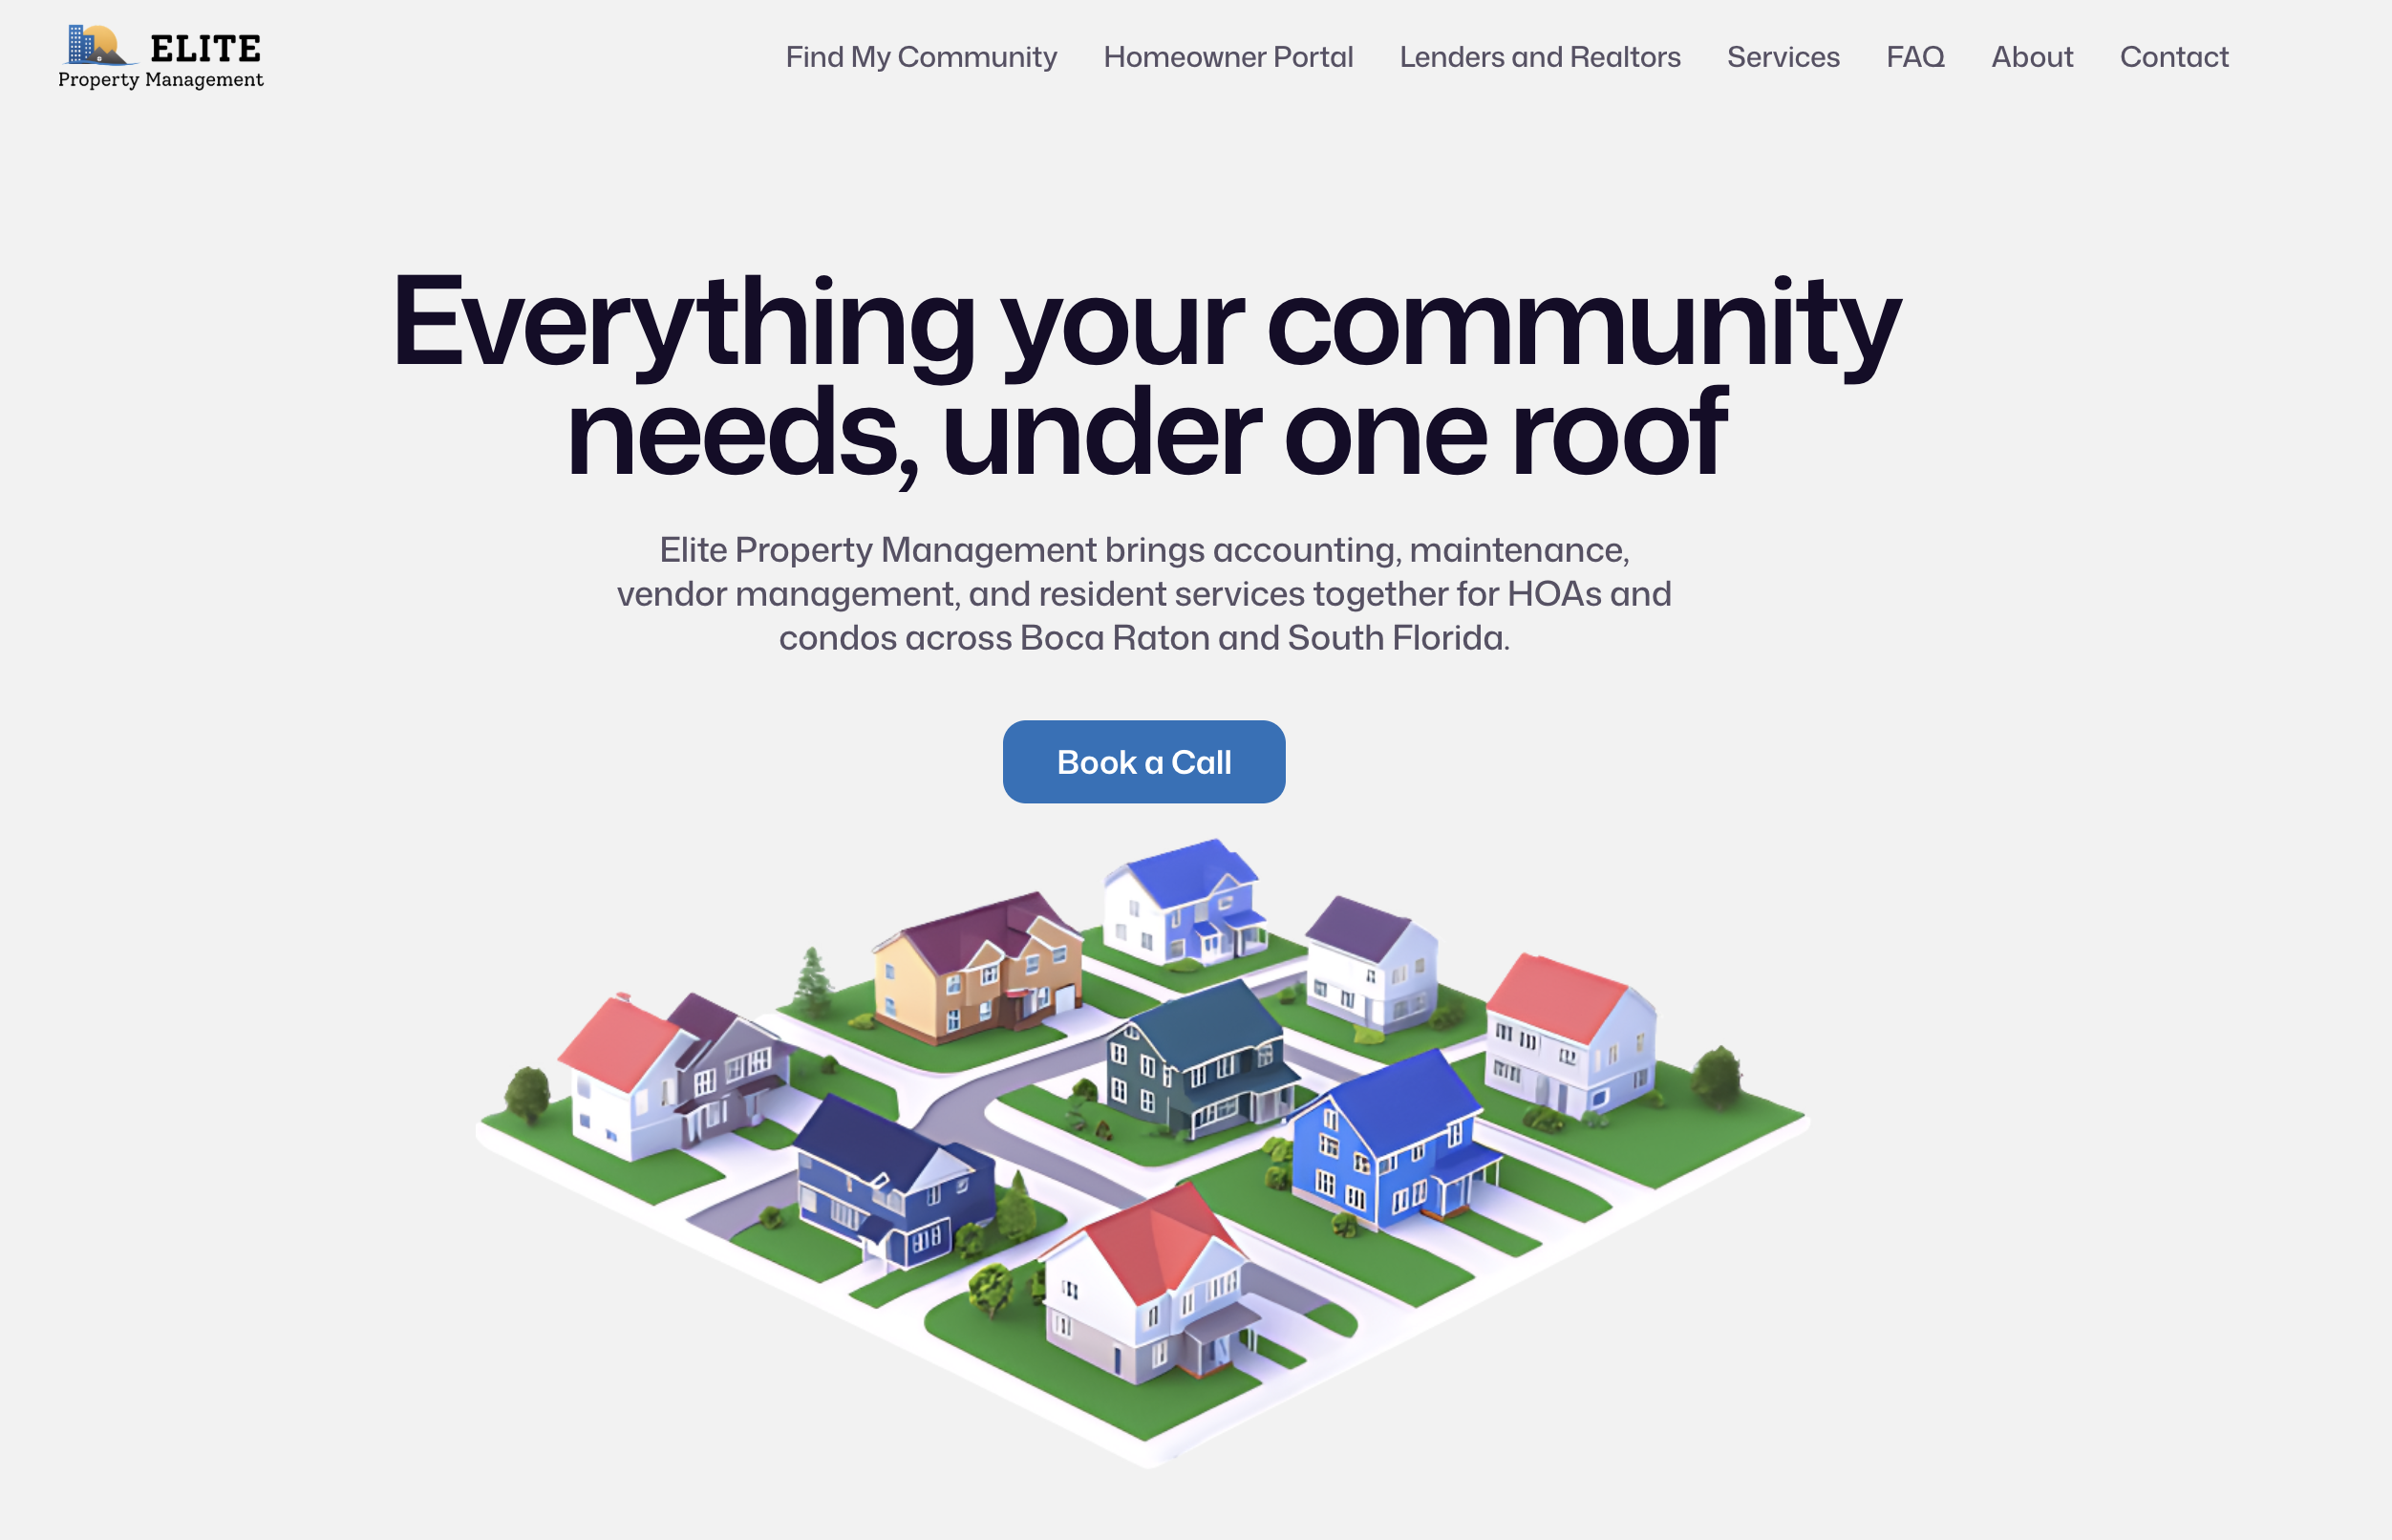
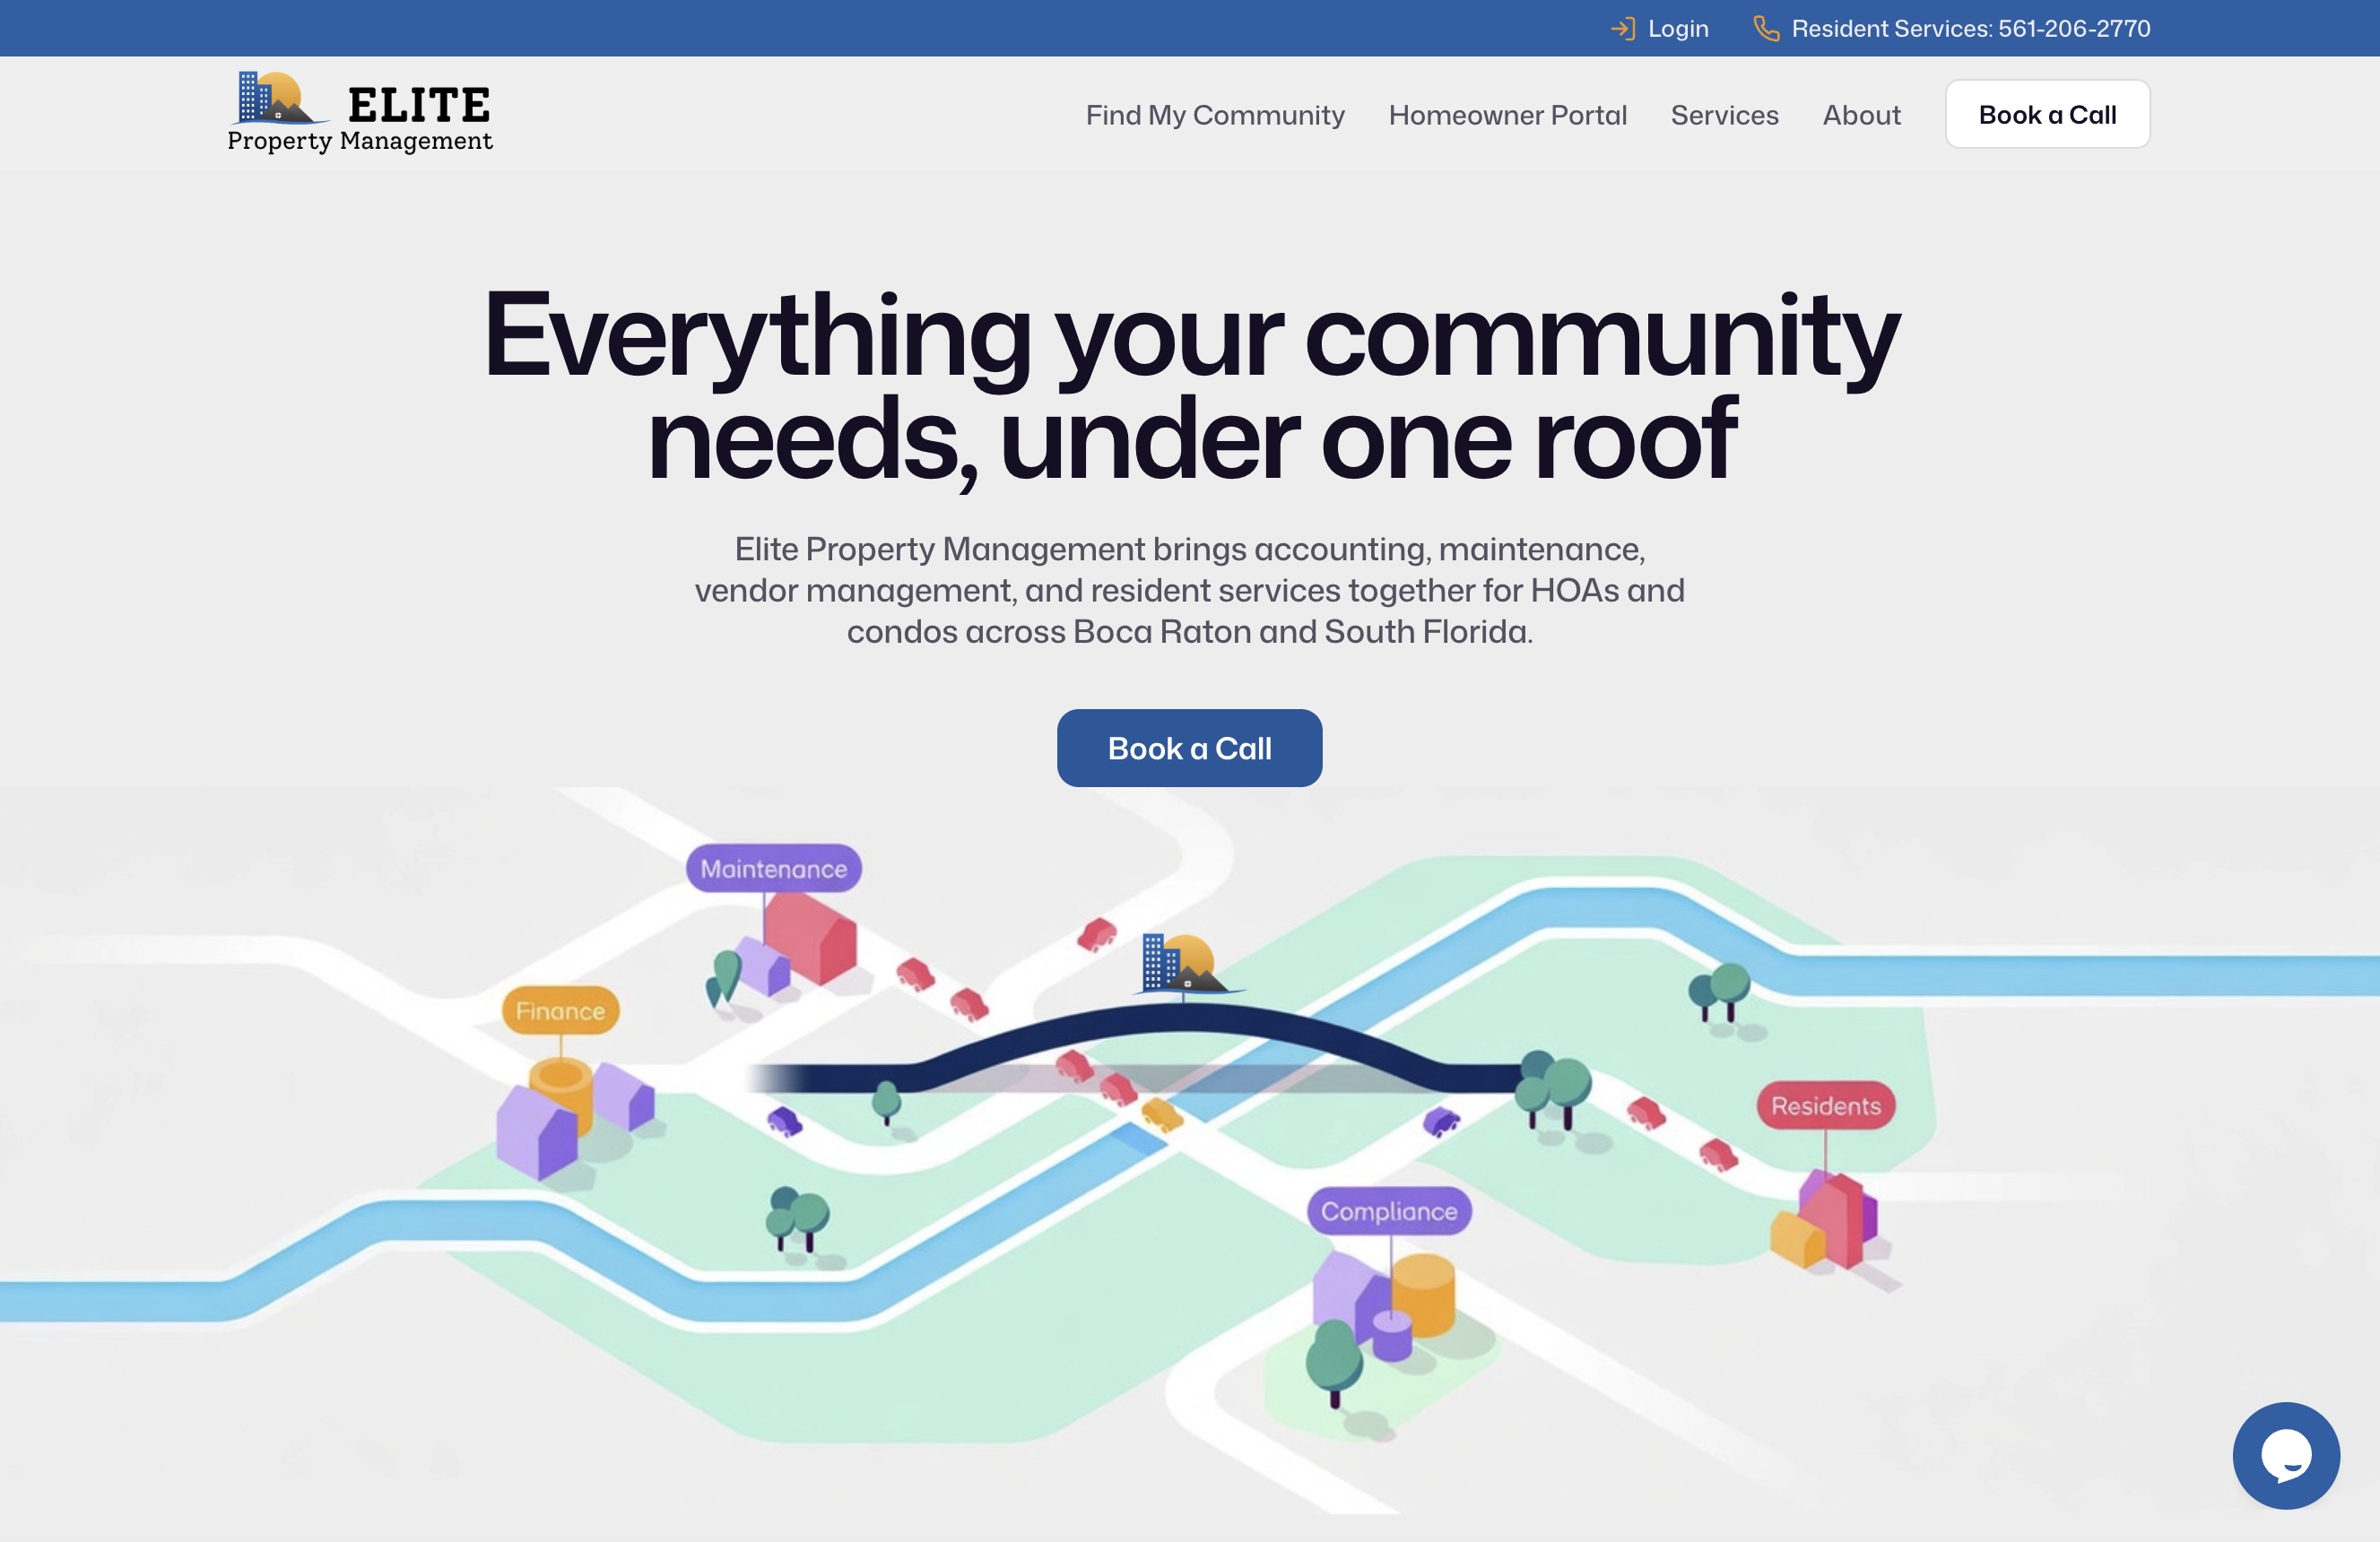
Update project images, carousel chip labels, and SEO description
- Replace WeOut app screenshot (project-8)
- Replace Elite PM landing screenshot (project-3)
- Replace Elite PM section screenshot (work-4)
- Rename carousel chips to Product, Website, Identity
- Reduce chip font size and use site background color
- Update meta description for non-technical founders positioning

diff --git a/index.html b/index.html
@@ -5,7 +5,7 @@
 <meta name="viewport" content="width=device-width, initial-scale=1">
 <title>Vorten Studio</title>
 <link rel="icon" type="image/png" href="favicon.png">
-<meta name="description" content="Vorten Studio — premium design and development for startups that need to move fast and ship beautifully.">
+<meta name="description" content="Vorten Studio — A product studio for non-technical founders. Product strategy, design, and development in one team. Turning ideas into shipped products.">
 <link href="https://api.fontshare.com/v2/css?f[]=satoshi@400,500,600,700,800,900&display=swap" rel="stylesheet">
 <script src="https://cdn.lordicon.com/lordicon.js"></script>
 <style>
@@ -73,7 +73,7 @@ header{position:fixed;top:0.75rem;left:50%;transform:translateX(-50%);z-index:99
 #showcase{padding:1.5rem 0;overflow:hidden}
 .showcase-track{display:flex;gap:1.5rem;animation:marquee 60s linear infinite;width:max-content;padding-left:1.5rem}
 .showcase-card{width:33rem;height:26.5rem;border-radius:var(--card-radius);overflow:hidden;flex-shrink:0;background:#fff;padding:2rem 0 0 2rem;position:relative}
-.showcase-card .card-title{position:absolute;top:0.75rem;left:-0.5rem;font-size:1rem;font-weight:700;color:#111;background:#fff;padding:0.35rem 0.85rem;border-radius:9999px;z-index:1}
+.showcase-card .card-title{position:absolute;top:0.75rem;left:-0.5rem;font-size:0.75rem;font-weight:700;color:#111;background:var(--bg);padding:0.3rem 0.75rem;border-radius:9999px;z-index:1}
 .showcase-card img{width:100%;height:100%;object-fit:cover;object-position:top left;border-radius:0.75rem 0.75rem 0 0}
 .showcase-card.card-logo{padding:2rem}
 .showcase-card.card-logo img{width:100%;height:100%;object-fit:contain;object-position:center;border-radius:0.75rem}
@@ -249,21 +249,21 @@ footer p{font-size:0.875rem;font-weight:700;color:var(--gray);letter-spacing:-0.
 <!-- SHOWCASE -->
 <section id="showcase">
   <div class="showcase-track">
-    <div class="showcase-card" style="padding:2rem"><span class="card-title">Web</span><img src="assets/project-3.png" alt="Elite Property Management" style="width:100%;height:100%;object-fit:cover;object-position:top left;border-radius:0.75rem"></div>
-    <div class="showcase-card card-logo"><span class="card-title">Brand</span><img src="assets/project-5.png" alt="UntzDrop logo" style="background:#1D1713"></div>
+    <div class="showcase-card" style="padding:2rem"><span class="card-title">Website</span><img src="assets/project-3.png" alt="Elite Property Management" style="width:100%;height:100%;object-fit:cover;object-position:top left;border-radius:0.75rem"></div>
+    <div class="showcase-card card-logo"><span class="card-title">Identity</span><img src="assets/project-5.png" alt="UntzDrop logo" style="background:#1D1713"></div>
     <div class="showcase-card"><span class="card-title">Product</span><img src="assets/project-8.png" alt="WeOut app"></div>
-    <div class="showcase-card"><span class="card-title">Web</span><img src="assets/project-1.png" alt="Lighter project"></div>
-    <div class="showcase-card card-logo"><span class="card-title">Brand</span><img src="assets/project-7.png" alt="Elite Property Management logo"></div>
+    <div class="showcase-card"><span class="card-title">Website</span><img src="assets/project-1.png" alt="Lighter project"></div>
+    <div class="showcase-card card-logo"><span class="card-title">Identity</span><img src="assets/project-7.png" alt="Elite Property Management logo"></div>
     <div class="showcase-card"><span class="card-title">Product</span><img src="assets/project-4.png" alt="UntzDrop"></div>
-    <div class="showcase-card card-logo"><span class="card-title">Brand</span><img src="assets/project-6.png" alt="Vo splash screen" style="background:#f3f9f7"></div>
+    <div class="showcase-card card-logo"><span class="card-title">Identity</span><img src="assets/project-6.png" alt="Vo splash screen" style="background:#f3f9f7"></div>
     <div class="showcase-card"><span class="card-title">Product</span><img src="assets/project-2.png" alt="Dashboard project"></div>
-    <div class="showcase-card" style="padding:2rem"><span class="card-title">Web</span><img src="assets/project-3.png" alt="Elite Property Management" style="width:100%;height:100%;object-fit:cover;object-position:top left;border-radius:0.75rem"></div>
-    <div class="showcase-card card-logo"><span class="card-title">Brand</span><img src="assets/project-5.png" alt="UntzDrop logo" style="background:#1D1713"></div>
+    <div class="showcase-card" style="padding:2rem"><span class="card-title">Website</span><img src="assets/project-3.png" alt="Elite Property Management" style="width:100%;height:100%;object-fit:cover;object-position:top left;border-radius:0.75rem"></div>
+    <div class="showcase-card card-logo"><span class="card-title">Identity</span><img src="assets/project-5.png" alt="UntzDrop logo" style="background:#1D1713"></div>
     <div class="showcase-card"><span class="card-title">Product</span><img src="assets/project-8.png" alt="WeOut app"></div>
-    <div class="showcase-card"><span class="card-title">Web</span><img src="assets/project-1.png" alt="Lighter project"></div>
-    <div class="showcase-card card-logo"><span class="card-title">Brand</span><img src="assets/project-7.png" alt="Elite Property Management logo"></div>
+    <div class="showcase-card"><span class="card-title">Website</span><img src="assets/project-1.png" alt="Lighter project"></div>
+    <div class="showcase-card card-logo"><span class="card-title">Identity</span><img src="assets/project-7.png" alt="Elite Property Management logo"></div>
     <div class="showcase-card"><span class="card-title">Product</span><img src="assets/project-4.png" alt="UntzDrop"></div>
-    <div class="showcase-card card-logo"><span class="card-title">Brand</span><img src="assets/project-6.png" alt="Vo splash screen" style="background:#f3f9f7"></div>
+    <div class="showcase-card card-logo"><span class="card-title">Identity</span><img src="assets/project-6.png" alt="Vo splash screen" style="background:#f3f9f7"></div>
     <div class="showcase-card"><span class="card-title">Product</span><img src="assets/project-2.png" alt="Dashboard project"></div>
   </div>
 </section>